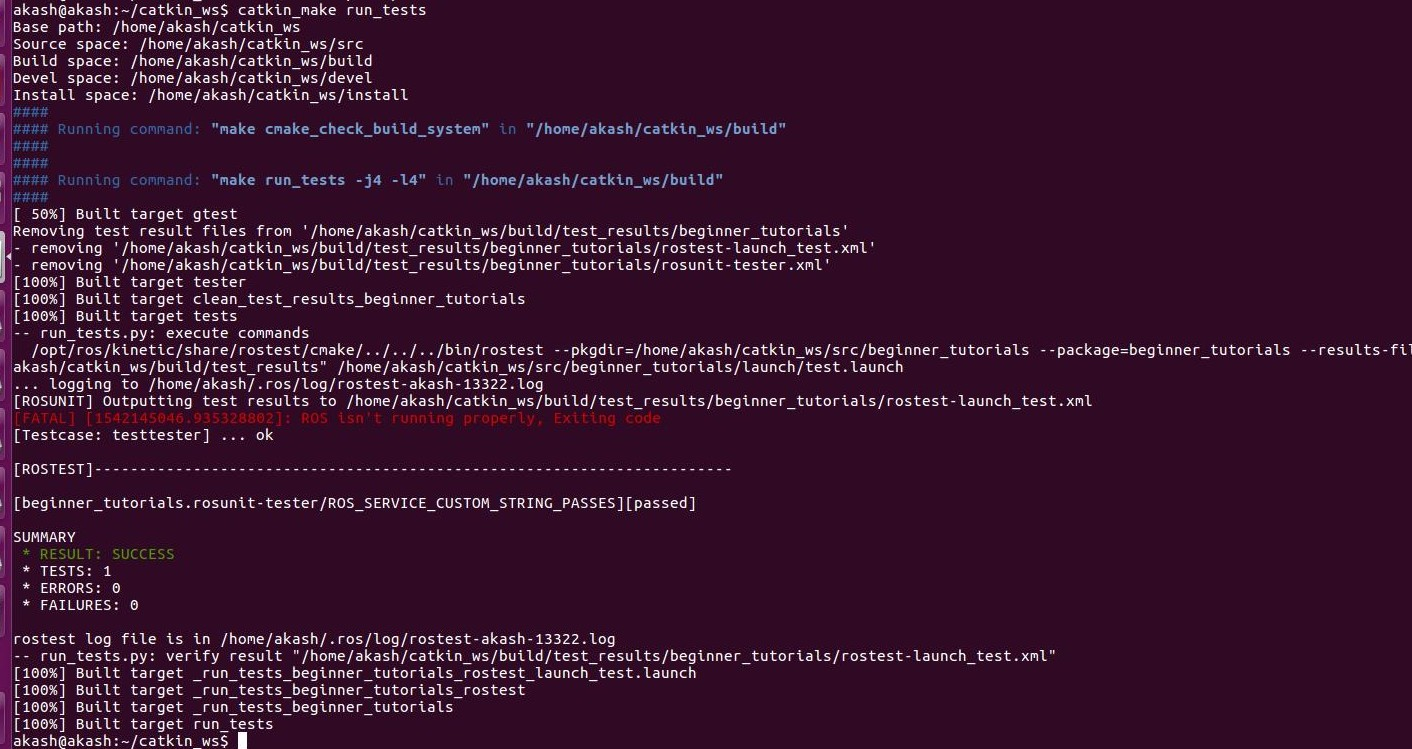
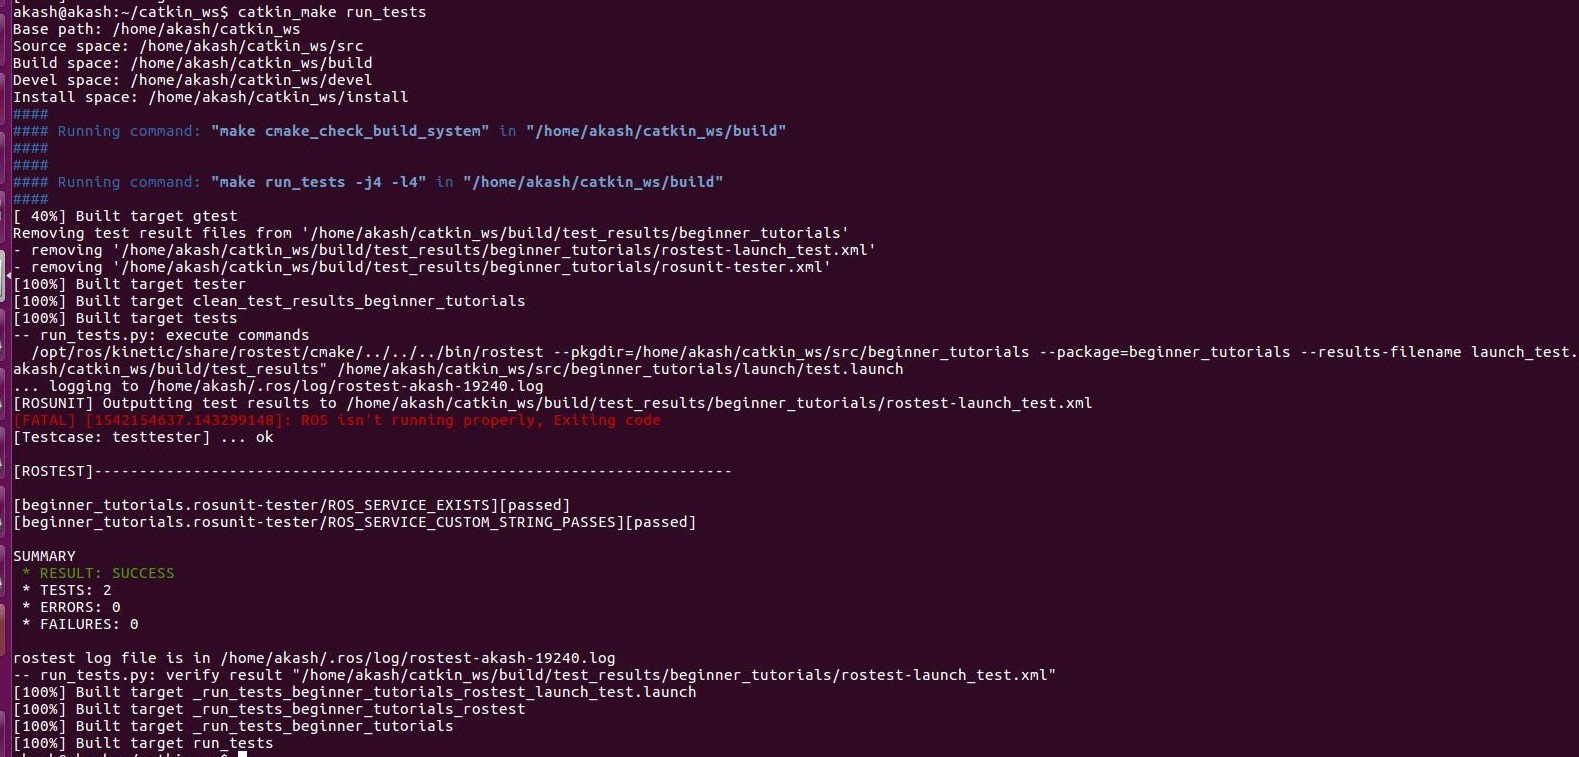
Another test was added for checking the existence of ROS service, Correspondigly, test results snapshot was updated in the "Week11_HW_results" directory

Changed region(s): [[0.0, 0.0, 1.0, 1.0]]

diff --git a/test/test.cpp b/test/test.cpp
@@ -38,6 +38,17 @@ THE POSSIBILITY OF SUCH DAMAGE.
 #include <gtest/gtest.h>
 #include <ros/ros.h>
 #include "beginner_tutorials/customString.h"
+/**
+ * @brief Test to find if the implemented ROS service for changing string exists
+ * @param TESTSuite Gtest framework
+ * @param ROS_SERVICE_EXISTS Test name
+ */
+TEST(TestSuite, ROS_SERVICE_EXISTS) {
+  ros::NodeHandle n;  // Node Handle Created
+  ros::ServiceClient client = n.serviceClient<beginner_tutorials::customString>(
+     "customString");  // Client created for accesing the service
+  EXPECT_TRUE(client.waitForExistence(ros::Duration(3)));  // Test check
+}
 
 /**
  * @brief Test to find if the implemented ROS service for changing string works correctly
